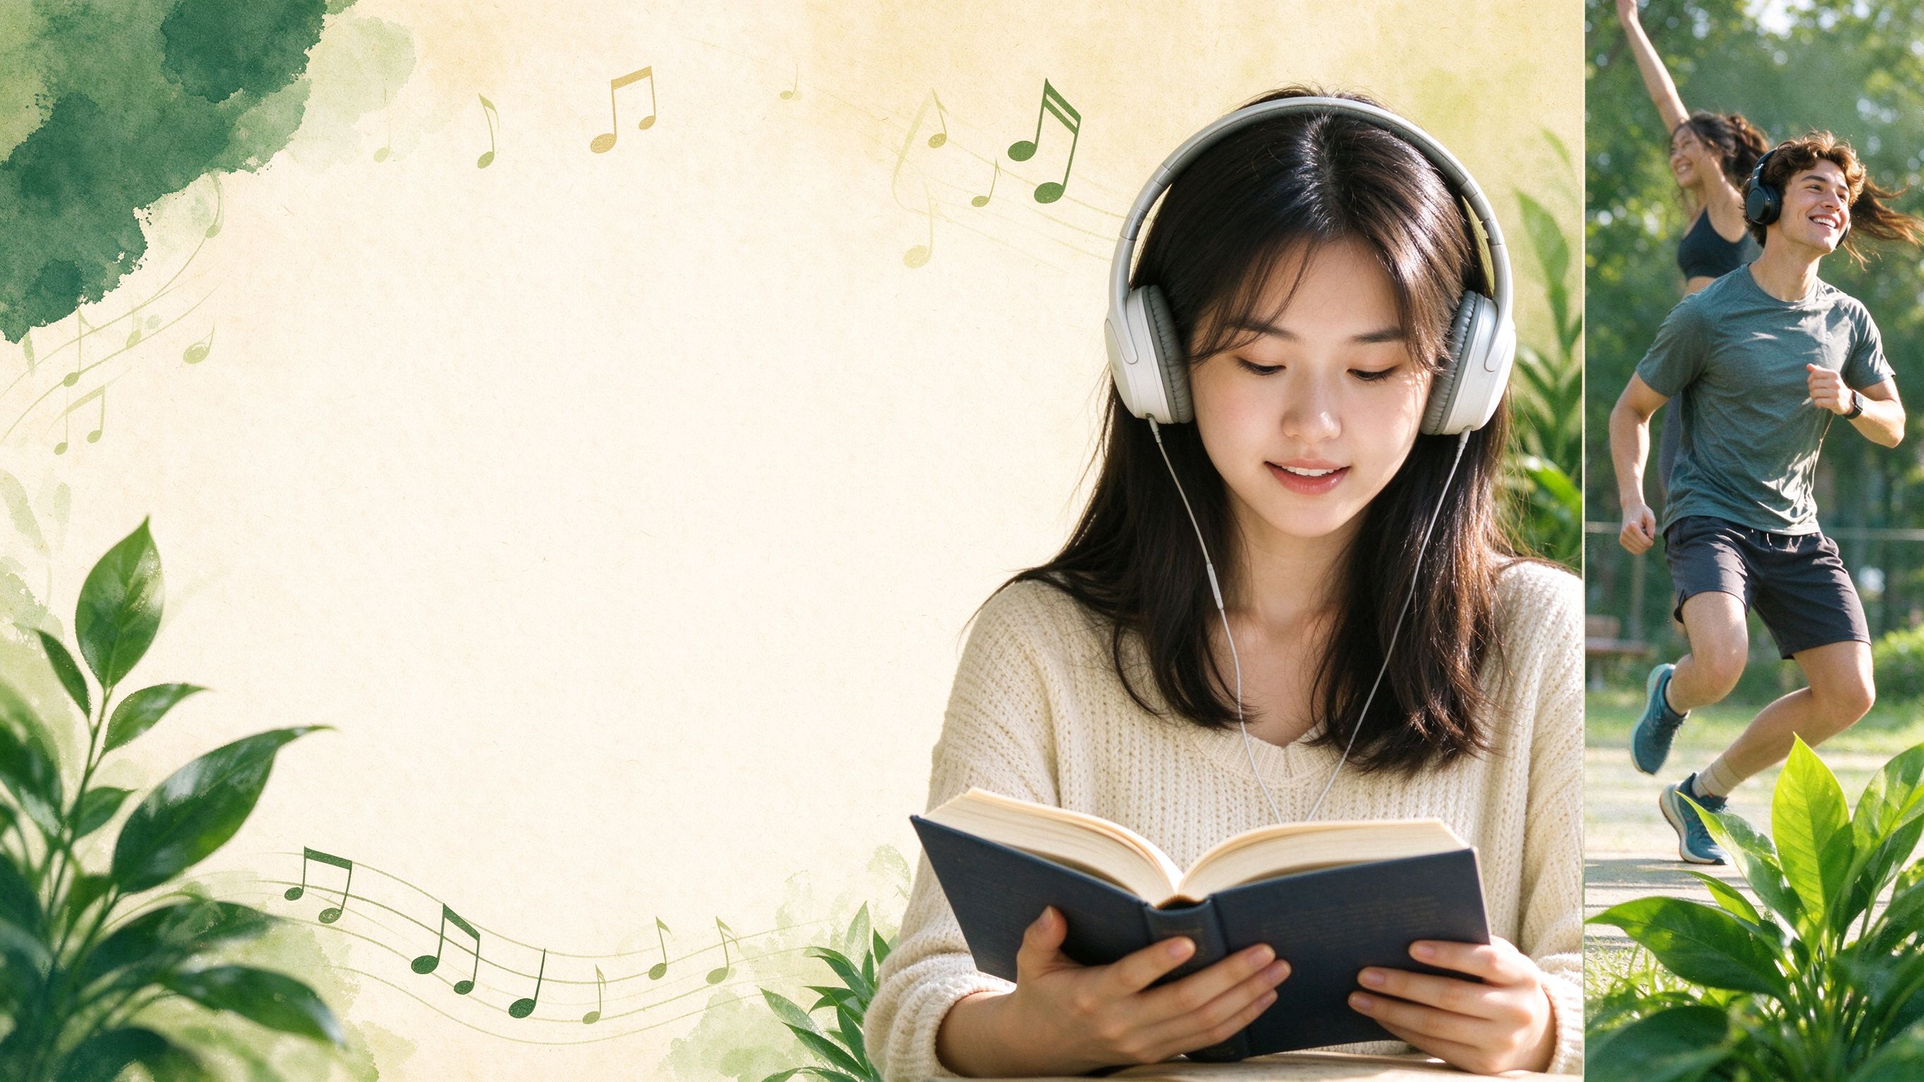
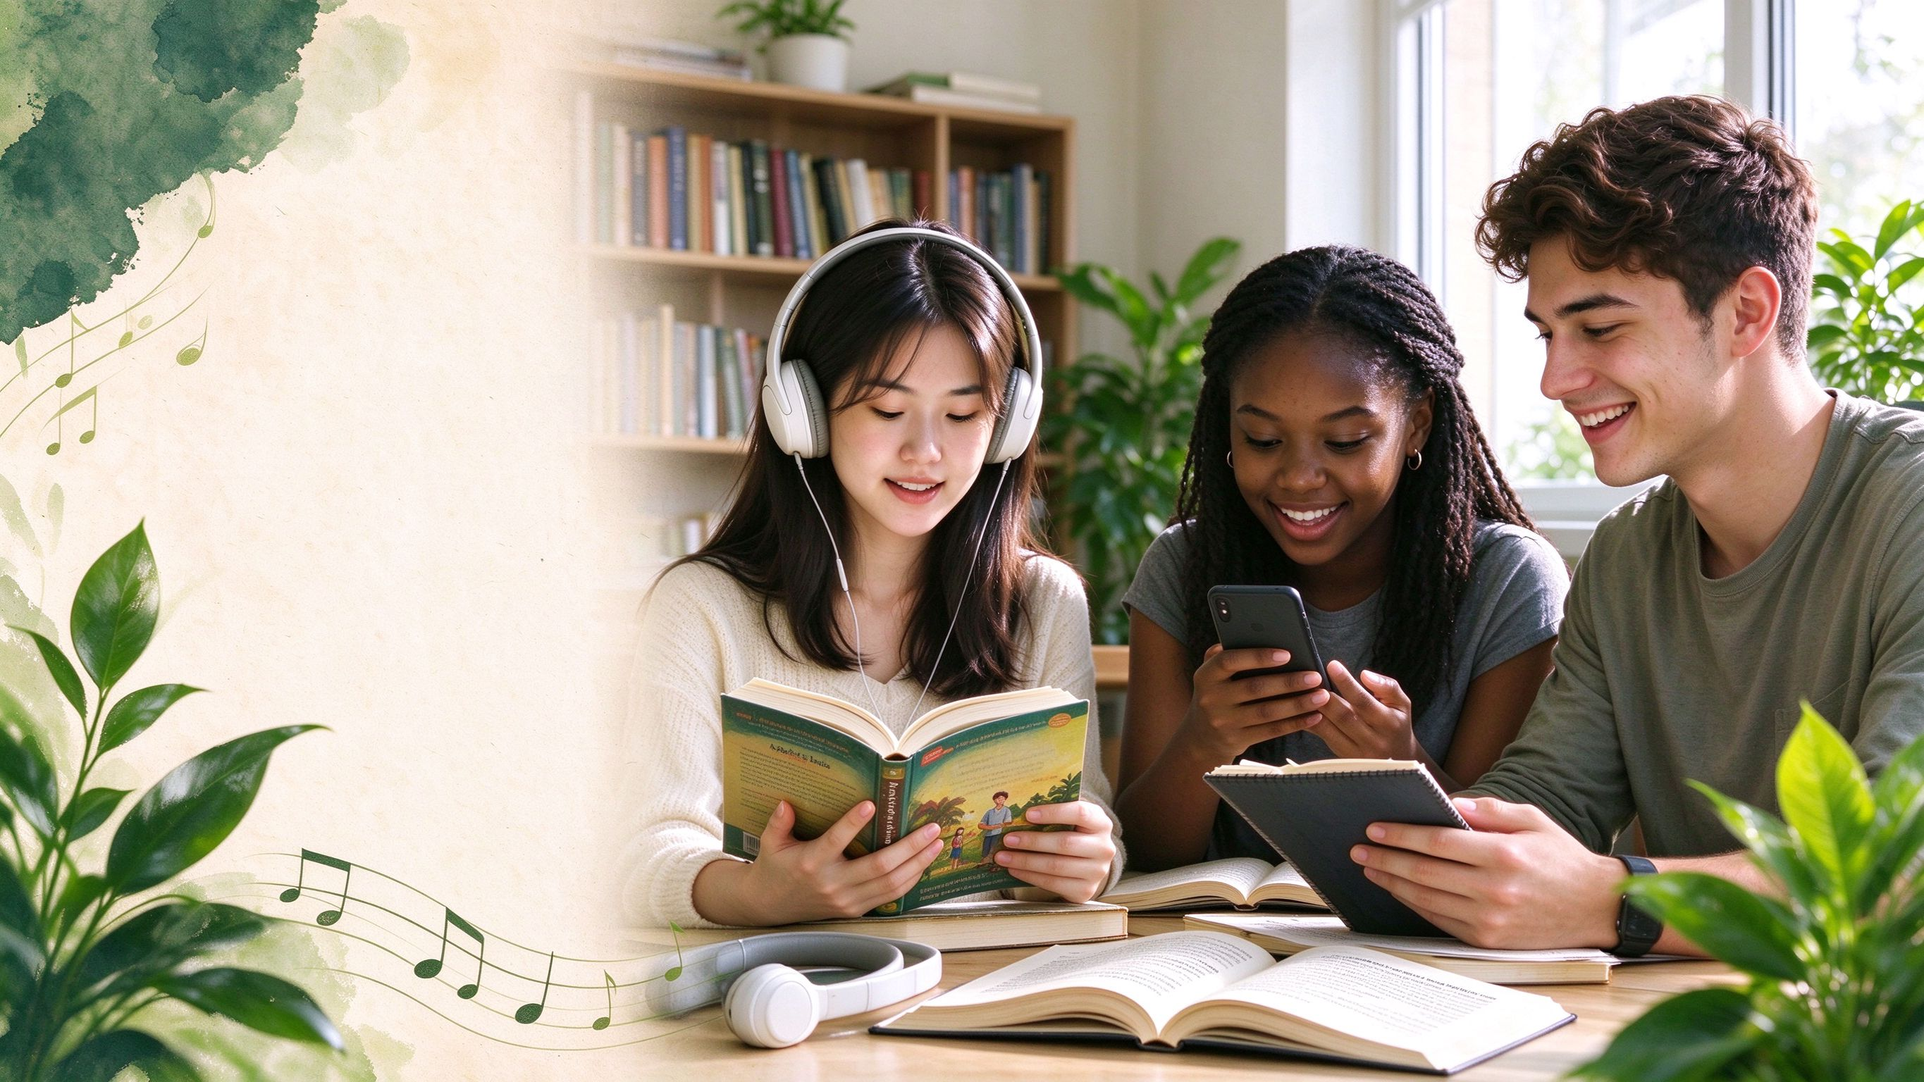
首页首屏多肤色大图+开始阅读下拉菜单+学习指南新页+音乐页眉与18首封面图 (SW v10)

diff --git a/guide.html b/guide.html
@@ -1,0 +1,98 @@
+<!doctype html>
+<html lang="zh-CN"><head><meta charset="utf-8"><meta name="viewport" content="width=device-width,initial-scale=1"><meta name="theme-color" content="#f7f5ef"><meta name="description" content="English Steps 学习指南：CEFR 欧美语言分级制度介绍、按分级学习技巧、以及唱歌学英语的优势。"><title>学习指南 · English Steps</title><link rel="stylesheet" href="site.css"><link rel="manifest" href="manifest.json"><meta name="mobile-web-app-capable" content="yes"><meta name="apple-mobile-web-app-capable" content="yes"><meta name="apple-mobile-web-app-status-bar-style" content="default"><meta name="apple-mobile-web-app-title" content="English Steps"><link rel="apple-touch-icon" href="images/icons/icon-192.png">
+<style>
+  .guide-shell{max-width:820px;margin:auto;padding:0 30px 60px}
+  .guide-header{padding:34px 0 10px}
+  .guide-header h1{font:500 clamp(34px,5vw,48px)/1.05 Newsreader,serif;margin:12px 0 10px;letter-spacing:-1px}
+  .guide-header h1 em{color:var(--green);font-weight:400}
+  .guide-header p{color:var(--muted);font-size:13px;line-height:1.8;max-width:640px}
+  .g-block{background:var(--white);border:1px solid var(--line);border-radius:18px;box-shadow:var(--shadow-sm);padding:24px 26px;margin:18px 0}
+  .g-block h2{font:500 24px Newsreader,serif;margin:0 0 6px;color:var(--ink)}
+  .g-block .kicker{font-size:10px;letter-spacing:1.6px;color:var(--green);font-weight:700;text-transform:uppercase;margin-bottom:12px}
+  .g-block p{font-size:13.5px;line-height:1.9;color:#3f4a43;margin:0 0 12px}
+  .g-block ul{margin:8px 0 12px;padding-left:20px}
+  .g-block li{font-size:13.5px;line-height:1.85;color:#3f4a43;margin-bottom:9px}
+  .g-block li b{color:var(--green-deep)}
+  .level-table{width:100%;border-collapse:collapse;margin:14px 0 4px;font-size:13px}
+  .level-table th,.level-table td{border:1px solid var(--line);padding:11px 13px;text-align:left;vertical-align:top}
+  .level-table th{background:var(--paper2);font-weight:700;font-size:12px}
+  .level-table td b{color:var(--ink)}
+  .level-table .badge{display:inline-block;color:#fff;border-radius:8px;padding:3px 9px;font-size:12px;font-weight:700}
+  .tip{background:var(--mint);border-left:4px solid var(--green);border-radius:10px;padding:12px 15px;font-size:13px;line-height:1.8;color:#2f4036;margin:14px 0}
+  .srcs{font-size:11px;color:var(--muted);line-height:1.8;margin-top:6px}
+  .srcs a{color:var(--green);text-decoration:underline}
+  @media(max-width:580px){.guide-shell{padding:0 15px 44px}.guide-header{padding:26px 0 8px}.g-block{padding:19px 17px}.level-table{font-size:12px}}
+</style></head>
+<body><div class="shell">
+  <header class="topbar"><a class="brand" href="index.html"><span class="brandmark">e</span> English Steps</a><nav class="toplinks"><a href="index.html#library">阅读书架</a><a href="music.html">音乐跟读</a><a href="guide.html" aria-current="page">学习指南</a></nav></header>
+  <div class="guide-shell">
+    <div class="guide-header">
+      <a class="back-link" href="index.html">← 返回首页</a>
+      <div class="eyebrow">GUIDE · CEFR · SING</div>
+      <h1>学习指南 <em>Guide</em></h1>
+      <p>了解欧美语言分级制度（CEFR）是什么，为什么按分级学习更高效，以及用音乐跟唱学英语为什么特别有效。</p>
+    </div>
+
+    <div class="g-block">
+      <div class="kicker">What is CEFR</div>
+      <h2>CEFR：欧洲语言共同参考框架</h2>
+      <p><b>CEFR（Common European Framework of Reference for Languages，欧洲语言共同参考框架）</b>是由欧洲理事会制定的一套语言能力描述标准，用来衡量一个人"能实际用一门语言做什么"。它把语言能力从入门到精通划分为 <b>A1 → A2 → B1 → B2 → C1 → C2</b> 六个等级，A 为基础使用者、B 为独立使用者、C 为熟练使用者。</p>
+      <p>这套标准被全球广泛用于外语教学、教材分级、考试与自我评估，也是 English Steps 给每篇短文和每首歌分级（从易到难）的依据。选对等级，你就能在"刚好跳一跳够得着"的难度里稳步进步。</p>
+      <div class="tip">简单记：A1/A2 是"敢开口、能应付日常"，B1/B2 是"能独立交流、能讨论观点"，C1/C2 是"接近母语者的流利与精准"。</div>
+    </div>
+
+    <div class="g-block">
+      <div class="kicker">The Six Levels</div>
+      <h2>六个等级速览</h2>
+      <table class="level-table">
+        <thead><tr><th>等级</th><th>中文 / 英文</th><th>这一级你大概能做到</th></tr></thead>
+        <tbody>
+          <tr><td><span class="badge" style="background:#2f7fe0">A1</span></td><td>入门 · Beginner</td><td>理解并使用最常用的日常表达和基础短语；能简单自我介绍、回答个人信息；听懂语速慢、表达清晰的简单句子。</td></tr>
+          <tr><td><span class="badge" style="background:#0fa98d">A2</span></td><td>基础 · Elementary</td><td>理解与自身直接相关的常用表达（家庭、购物、本地、工作）；能进行简单日常对话，读懂购物单、菜单、简短便条等日常文本。</td></tr>
+          <tr><td><span class="badge" style="background:#22a558">B1</span></td><td>中级 · Intermediate</td><td>理解日常生活与工作中的常用语言；能描述事件、经历、感受和愿望；旅行时能应对大多数常见情况，讲述简单故事。</td></tr>
+          <tr><td><span class="badge" style="background:#d98a1f">B2</span></td><td>中高级 · Upper intermediate</td><td>理解具体与抽象话题的复杂文本主要内容；能与母语者较自然流畅地互动；能就广泛话题写出清晰详细、有理有据的文章。</td></tr>
+          <tr><td><span class="badge" style="background:#7c5ce0">C1</span></td><td>高级 · Advanced</td><td>理解较长的、要求高的文本并能读出隐含意义；表达流利自然；能灵活有效地把语言用于社交、学术与职业场合。</td></tr>
+          <tr><td><span class="badge" style="background:#d85a9c">C2</span></td><td>精通 · Proficient</td><td>几乎毫不费力地理解听到或读到的一切；能从不同来源概括、重构信息；表达自发、流利、精准，能区分极细微的语义差别。</td></tr>
+        </tbody>
+      </table>
+      <div class="srcs">等级能力描述参考：欧洲理事会 CEFR 官方量表、Europass、British Council 分级说明。</div>
+    </div>
+
+    <div class="g-block">
+      <div class="kicker">How to Use Grading</div>
+      <h2>按分级学习的技巧</h2>
+      <ul>
+        <li><b>先选"刚好够得着"的级别：</b>不必一上来挑战最高级。能读懂大部分、但有 5–10% 生词的级别，最适合高效学习——太难会挫败，太易则没长进。</li>
+        <li><b>A1–A2 打地基：</b>大量听和跟读模仿，积累高频词与基础句式；不纠结语法细节，先建立语感和信心。</li>
+        <li><b>B1–B2 建能力：</b>开始读真实语境短文，用上下文猜词并积累主题词汇；复述、写简评，把输入转成输出；留意连读、弱读与语流。</li>
+        <li><b>C1–C2 求精进：</b>接触较长较复杂的文本与口语，关注隐含意义、语域（正式/非正式），主动使用更精准、更高级的表达。</li>
+        <li><b>小步快跑、反复接触：</b>同一词汇在不同文章和歌曲里反复出现才能真正记住；宁可每天 20 分钟，也不要一周一次大块时间。</li>
+      </ul>
+    </div>
+
+    <div class="g-block">
+      <div class="kicker">Why Sing</div>
+      <h2>为什么唱歌学英语特别有效</h2>
+      <ul>
+        <li><b>发音和听力提升明显：</b>模仿歌曲中的连读、弱读、语调与节奏，能帮你训练口型、语流和重音，让英语说得更自然。</li>
+        <li><b>词汇记得更牢：</b>歌词把单词放进真实语境和旋律里，随着节奏反复出现。相关研究显示，用歌曲学习可使词汇记忆留存提升约 32%、发音准确率提升约 22%，远比孤立死记硬背有效。</li>
+        <li><b>培养语感与节奏：</b>旋律帮你记住句子的重音与停顿，模仿发音规律，说英语更顺畅。</li>
+        <li><b>降低焦虑、提升动机：</b>音乐带来情绪和记忆联结，学习更投入、更容易坚持，对害羞开口的学习者尤其友好。</li>
+        <li><b>积累地道口语表达：</b>歌词里有大量日常、口语化说法，帮你学到课本之外的自然表达。</li>
+      </ul>
+      <div class="tip">在 English Steps 的音乐跟读里，每首歌都标了 CEFR 等级、附中英对照和生词，可以完整演唱跟学，也可以逐句停下来查词、练发音。</div>
+      <div class="srcs">参考：关于歌曲学习提升词汇记忆留存与发音准确率的研究（Semantic Scholar 收录）、新东方英语学习指南及相关教学论文。</div>
+    </div>
+
+    <div class="g-block">
+      <div class="kicker">Get Started</div>
+      <h2>在 English Steps 怎么开始</h2>
+      <ul>
+        <li><b>阅读书架：</b>从 A1 开始，按主题挑选分级短文，进文章页听 AI 朗读、调速、循环，点击单词看中文释义。</li>
+        <li><b>音乐跟读：</b>挑一首适合你等级的歌，完整演唱 + 歌词随进度高亮 + 中英对照 + 生词，跟着旋律逐句学唱。</li>
+        <li><b>进阶路径：</b>同一等级的文章和歌曲混合练习，觉得轻松了就换到下一等级，稳步向上。</li>
+      </ul>
+    </div>
+  </div>
+  <footer class="footer"><span>English Steps · 学习指南</span><span>CEFR 分级 · 分级阅读 + 分级音乐跟读</span></footer>
+</div><script src="sw-register.js"></script></body></html>

diff --git a/index.html b/index.html
@@ -4,8 +4,8 @@
 <div class="hero-full" id="top">
   <img class="hero-bg" src="images/hero-banner.png?v=20261004" alt="English Steps 首屏宣传插画：年轻人戴耳机读分级读物、学习锻炼" fetchpriority="high">
   <div class="hero-fade"></div>
-  <header class="hero-nav"><a class="brand" href="index.html"><span class="brandmark">e</span> English Steps</a><nav class="toplinks"><a href="#library">阅读书架</a><a href="music.html">音乐跟读</a><a href="#about">学习指南</a></nav></header>
-  <div class="hero-copy"><div class="eyebrow">READ · LISTEN · DISCOVER</div><h1>Small steps.<br><em>Stronger English.</em></h1><p>从 A1 到 C2，挑一篇适合自己的英语短文。进入文章页可以听朗读、调整语速、循环播放，或点击单词查询中文释义。</p><a class="hero-cta" href="#library">开始阅读</a></div>
+  <header class="hero-nav"><a class="brand" href="index.html"><span class="brandmark">e</span> English Steps</a><nav class="toplinks"><a href="#library">阅读书架</a><a href="music.html">音乐跟读</a><a href="guide.html">学习指南</a></nav></header>
+  <div class="hero-copy"><div class="eyebrow">READ · LISTEN · DISCOVER</div><h1>Small steps.<br><em>Stronger English.</em></h1><p>从 A1 到 C2，挑一篇适合自己的英语短文：进入文章页可以听朗读、调速、循环或点单词查义；也可以到音乐跟读，跟着原创分级歌曲逐句学唱，用旋律巩固语感。</p><div class="dropdown"><button class="hero-cta dropdown-btn" type="button" aria-haspopup="true">开始阅读 <span class="caret">▾</span></button><div class="dropdown-menu"><a href="#library">文章阅读</a><a href="music.html">音乐跟读</a></div></div></div>
   <div class="hero-scroll">向下浏览 · 选择你的分级</div>
 </div>
 <div class="shell">
@@ -14,7 +14,7 @@
     <div class="hub-grid">
       <a class="hub-card" href="#library"><img src="images/hub-reading.png?v=20261004" alt="阅读书架：CEFR 分级英语短文" loading="lazy"><div class="hub-caption"><b>阅读书架</b><span>分级短文 · AI 朗读 · 点词查义</span></div></a>
       <a class="hub-card" href="music.html" target="_blank" rel="noopener"><img src="images/hub-music.png?v=20261004" alt="音乐跟读：原创分级英文歌曲" loading="lazy"><div class="hub-caption"><b>音乐跟读</b><span>原创分级歌曲 · AI 演唱 · 逐句学习</span></div></a>
-      <a class="hub-card" href="#about"><img src="images/hub-guide.png?v=20261004" alt="学习指南：CEFR 分级体系" loading="lazy"><div class="hub-caption"><b>学习指南</b><span>CEFR 体系 · 高效使用</span></div></a>
+      <a class="hub-card" href="guide.html" target="_blank" rel="noopener"><img src="images/hub-guide.png?v=20261004" alt="学习指南：CEFR 分级体系" loading="lazy"><div class="hub-caption"><b>学习指南</b><span>CEFR 体系 · 高效使用</span></div></a>
     </div>
   </section>
   <main id="library"><div class="section-head"><div><h2>Choose your level</h2><p>选级别与主题，找到下一篇想读的文章。</p></div><p id="articleCount"></p></div><section class="levels" id="levels" aria-label="CEFR 级别"></section><div class="library-tools"><div class="filters" id="filters" aria-label="按主题筛选"></div><input class="search" id="search" placeholder="⌕  搜索文章标题" aria-label="搜索文章"></div><section class="article-grid" id="articleGrid" aria-live="polite"></section></main>

diff --git a/site.css b/site.css
@@ -198,6 +198,14 @@ a{text-decoration:none}
 .hero-cta{display:inline-flex;align-items:center;gap:8px;margin-top:26px;padding:13px 26px;background:var(--green);color:#fff;border-radius:99px;font-size:14px;font-weight:600;box-shadow:0 10px 24px rgba(39,99,76,.28);transition:.18s}
 .hero-cta:hover{background:var(--green-deep);transform:translateY(-2px)}
 .hero-scroll{position:relative;z-index:2;text-align:center;padding:0 0 26px;color:var(--muted);font-size:12px;letter-spacing:.5px}
+/* 开始阅读下拉菜单 */
+.dropdown{position:relative;display:inline-block}
+.dropdown .hero-cta{border:none;cursor:pointer;appearance:none}
+.caret{font-size:11px;margin-left:6px}
+.dropdown-menu{position:absolute;top:calc(100% + 9px);left:0;min-width:190px;background:var(--white);border:1px solid var(--line);border-radius:14px;box-shadow:var(--shadow);padding:6px;display:none;z-index:6}
+.dropdown:hover .dropdown-menu,.dropdown:focus-within .dropdown-menu{display:block}
+.dropdown-menu a{display:block;padding:10px 14px;border-radius:9px;font-size:13px;color:var(--ink);transition:.12s}
+.dropdown-menu a:hover{background:var(--mint);color:var(--green-deep)}
 /* ===== 副屏：板块功能导航（图片为主，参考 languageguide.org）===== */
 .hub{padding:54px 0 8px}
 .hub-grid{display:grid;grid-template-columns:repeat(3,1fr);gap:18px;margin-top:22px}
@@ -216,3 +224,25 @@ a{text-decoration:none}
   .hub-grid{grid-template-columns:1fr}
   .hub-card img{height:170px}
 }
+/* ===== 音乐页页眉横幅背景图 ===== */
+.music-hero{position:relative;overflow:hidden;border-radius:20px;border:1px solid var(--line);box-shadow:var(--shadow-sm);margin:10px 0 28px;min-height:210px;display:flex;align-items:center}
+.music-hero .music-hero-bg{position:absolute;inset:0;width:100%;height:100%;object-fit:cover}
+.music-hero-overlay{position:absolute;inset:0;background:linear-gradient(90deg,rgba(247,245,239,.94) 0%,rgba(247,245,239,.62) 45%,rgba(247,245,239,.18) 100%)}
+.music-hero-copy{position:relative;padding:32px 26px 28px;z-index:2;max-width:640px}
+.music-hero-copy .back-link{margin-bottom:14px}
+.music-hero-copy h1{font:500 clamp(30px,4.6vw,44px)/1.05 Newsreader,serif;margin:10px 0 10px;letter-spacing:-1px}
+.music-hero-copy h1 em{color:var(--green);font-weight:400}
+.music-hero-copy p{color:var(--ink);font-size:12.5px;line-height:1.8;opacity:.92}
+/* ===== 每首歌封面图（与文章封面一致）===== */
+.song-card{padding:0;overflow:hidden}
+.song-cover{position:relative;overflow:hidden;aspect-ratio:2.0;background:var(--mint)}
+.song-cover img{width:100%;height:100%;object-fit:cover;display:block}
+.song-cover .cover-level{position:absolute;top:12px;left:12px;padding:5px 9px;border-radius:99px;background:#fffefaE8;border:1px solid #ffffffaa;color:var(--green);font-size:9px;font-weight:700;letter-spacing:.5px;backdrop-filter:blur(6px)}
+.song-card .song-theme{position:static;top:auto;right:auto;align-self:flex-start;margin:10px 0 2px 16px}
+.song-card .song-title-row{margin:0 16px}
+.song-card b{font:500 21px/1.14 Newsreader,serif;padding-right:0;margin:4px 16px 0}
+.song-card .song-cn{margin:0 16px}
+.song-card .song-style{margin:0 16px}
+.song-card .song-meta{margin:auto 16px 16px}
+@media(max-width:820px){.music-hero-copy{padding:26px 20px 24px}}
+@media(max-width:580px){.music-hero{min-height:180px}.music-hero-copy{padding:22px 16px 20px}.music-hero-copy p{font-size:12px}}

diff --git a/music.html b/music.html
@@ -38,14 +38,17 @@
   @media(max-width:580px){.music-shell{padding:0 15px 40px}.music-header{padding:26px 0 10px}.music-header h1{font-size:37px}.song-grid{grid-template-columns:1fr;gap:10px}}
 </style></head>
 <body><div class="shell">
-  <header class="topbar"><a class="brand" href="index.html"><span class="brandmark">e</span> English Steps</a><nav class="toplinks"><a href="index.html#library">阅读书架</a><a href="music.html" aria-current="page">音乐跟读</a><a href="index.html#about">学习指南</a></nav></header>
-  <div class="music-shell">
-    <div class="music-header">
+  <header class="topbar"><a class="brand" href="index.html"><span class="brandmark">e</span> English Steps</a><nav class="toplinks"><a href="index.html#library">阅读书架</a><a href="music.html" aria-current="page">音乐跟读</a><a href="guide.html">学习指南</a></nav></header>
+  <div class="music-hero">
+    <img class="music-hero-bg" src="images/music-hero.png?v=20261004" alt="音乐跟读页眉背景插画" fetchpriority="high">
+    <div class="music-hero-overlay"></div>
+    <div class="music-hero-copy">
       <a class="back-link" href="index.html">← 返回阅读书架</a>
       <div class="eyebrow">LISTEN · SING · LEARN</div>
       <h1>音乐跟读 <em>Music Room</em></h1>
       <p>原创分级英文歌曲，从 A1 到 C2 分级别。点击任意歌曲，在新页面打开独立播放器：完整演唱 + 歌词随进度高亮 + 中英对照 + 生词。全部为原创歌词 + AI 演唱。</p>
     </div>
+  </div>
     <nav class="level-nav" id="levelNav" aria-label="跳转到级别"></nav>
     <div id="levelSections" aria-label="分级歌曲列表"></div>
   </div>

diff --git a/sw.js b/sw.js
@@ -5,13 +5,14 @@
  *
  * 发布新内容后如需强制刷新缓存，请递增下方 CACHE_VERSION。
  */
-const CACHE_VERSION = 'english-steps-v9';
+const CACHE_VERSION = 'english-steps-v10';
 const CORE_ASSETS = [
   './',
   './index.html',
   './article.html',
   './music.html',
   './music-player.html',
+  './guide.html',
   './site.css',
   './articles.js',
   './new-articles.js',
@@ -42,6 +43,25 @@ const CORE_ASSETS = [
   './images/hub-reading.png',
   './images/hub-music.png',
   './images/hub-guide.png',
+  './images/music-hero.png',
+  './images/song-covers/you-and-me.png',
+  './images/song-covers/keep-going.png',
+  './images/song-covers/a1-sunny-day.png',
+  './images/song-covers/a1-my-family.png',
+  './images/song-covers/a2-bright-city.png',
+  './images/song-covers/a2-sunday-pancakes.png',
+  './images/song-covers/a2-best-friends.png',
+  './images/song-covers/b1-summer-trip.png',
+  './images/song-covers/b1-my-first-job.png',
+  './images/song-covers/b2-who-i-am.png',
+  './images/song-covers/b2-seasons-change.png',
+  './images/song-covers/b2-second-chances.png',
+  './images/song-covers/c1-beyond-the-sky.png',
+  './images/song-covers/c1-memories-in-the-rain.png',
+  './images/song-covers/c1-a-better-world.png',
+  './images/song-covers/c2-fading-sunset.png',
+  './images/song-covers/c2-the-quiet-battle.png',
+  './images/song-covers/c2-threads-of-tomorrow.png',
   './music/audio/you-and-me/full.mp3',
   './music/audio/keep-going/full.mp3',
   './music/audio/a1-sunny-day/full.mp3',

diff --git a/music.js b/music.js
@@ -15,6 +15,7 @@
     if(!songs.length)return '';
     const cards=songs.map(s=>`
       <a class="song-card" href="music-player.html?id=${encodeURIComponent(s.id)}" target="_blank" rel="noopener" aria-label="播放歌曲：${esc(s.title)}">
+        <div class="song-cover"><img src="images/song-covers/${encodeURIComponent(s.id)}.png" alt="${esc(s.title)}主题插画" loading="lazy"><span class="cover-level" data-level="${esc(s.level)}">${esc(s.level)} · CEFR</span></div>
         <span class="song-theme" data-level="${esc(s.level)}">${esc(s.theme)}</span>
         <b>${esc(s.title)}</b>
         <span class="song-cn">（${esc(s.cnTitle)}）</span>
